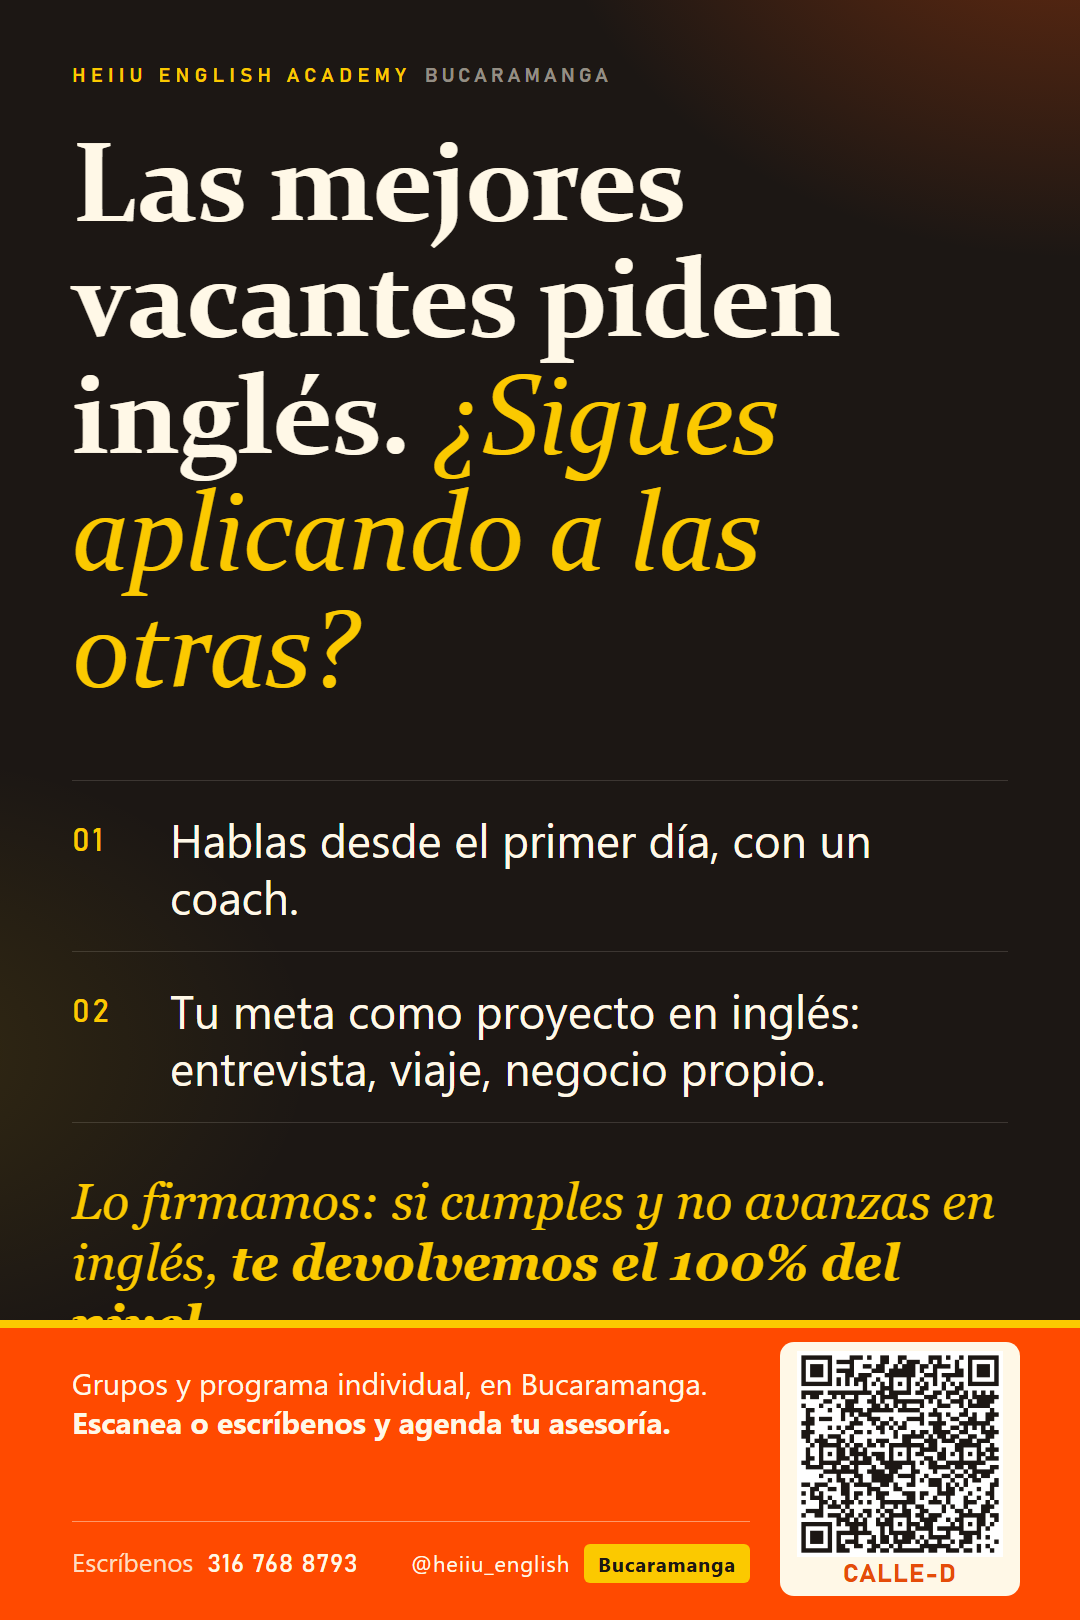
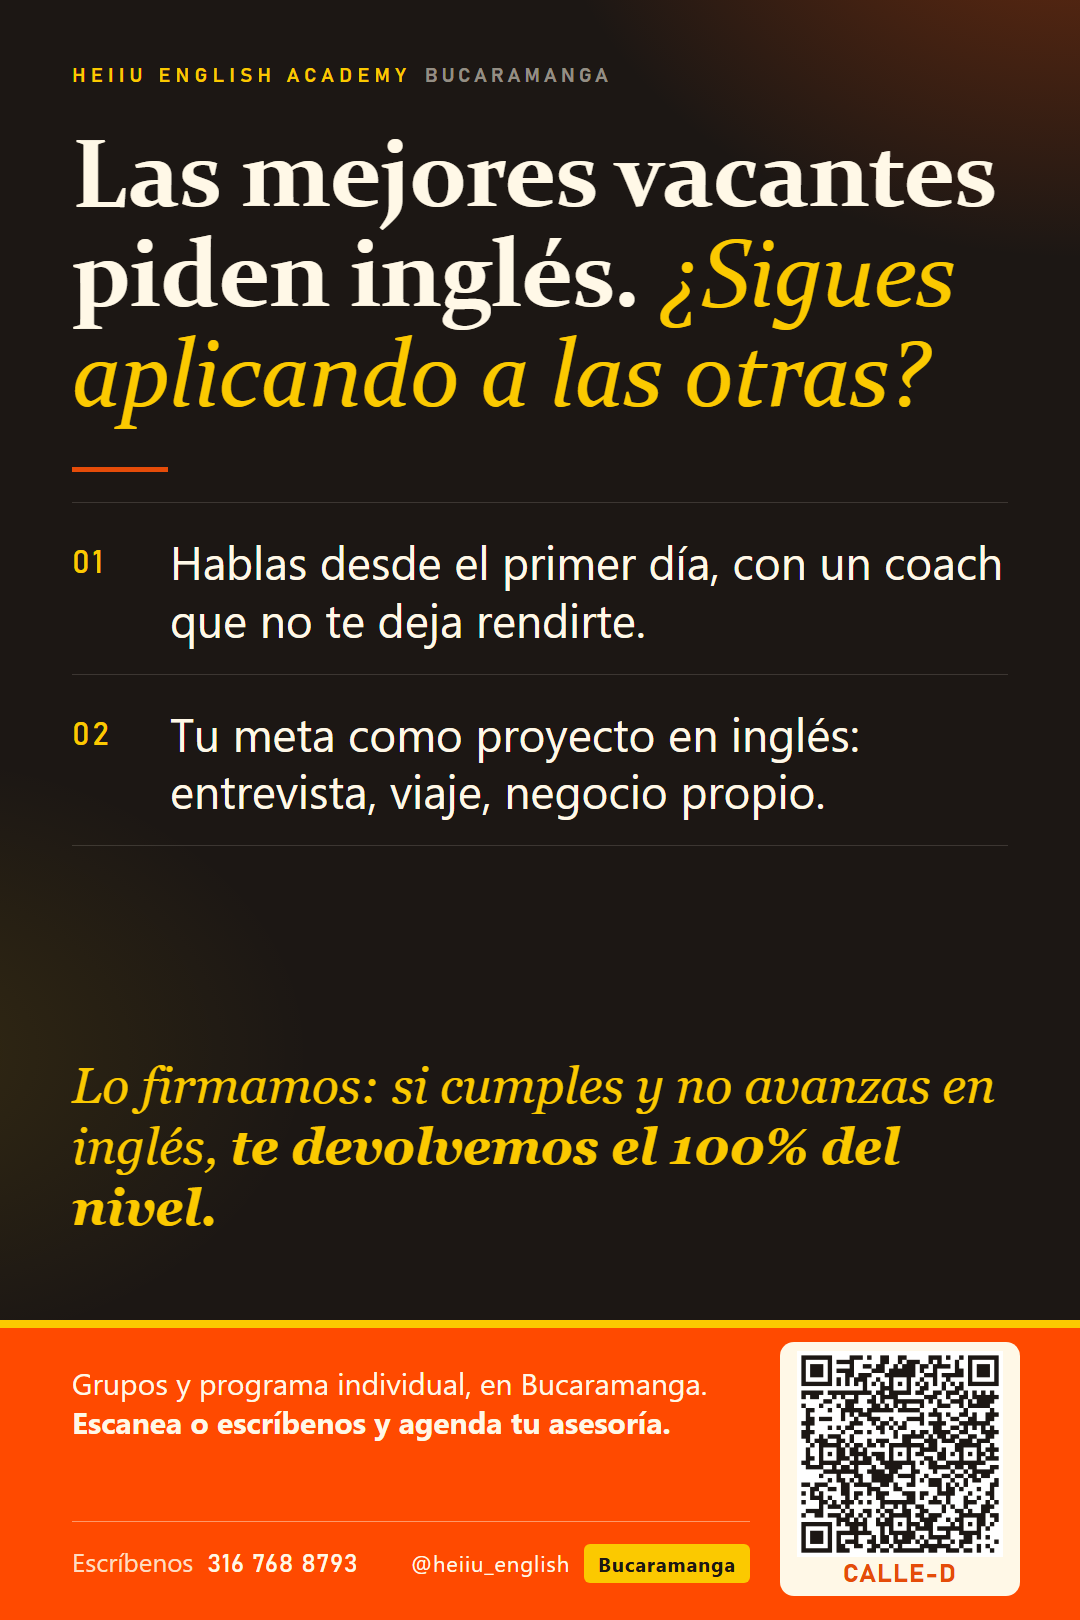
Calle D: titular a 96 px para que quepa con la garantia completa

Changed region(s): [[0.0611, 0.0926, 0.9167, 0.5864], [0.0611, 0.6173, 0.9167, 0.8333], [0.0611, 0.4938, 0.0917, 0.5247]]

diff --git a/generadores/comercial/gen_piezas_conciencia.py b/generadores/comercial/gen_piezas_conciencia.py
@@ -517,7 +517,7 @@ PIEZAS = {
     'CALLE_D': dict(
         calle=True, label='HEIIU ENGLISH ACADEMY', sub='BUCARAMANGA',
         h1='Las mejores vacantes piden inglés. <em>¿Sigues aplicando a las otras?</em>',
-        xl=True, st=[('Hablas desde el primer día, con un coach.'), ('Tu meta como proyecto en inglés: entrevista, viaje, negocio propio.')],
+        xl=True, h1px=96, st=[('Hablas desde el primer día, con un coach que no te deja rendirte.'), ('Tu meta como proyecto en inglés: entrevista, viaje, negocio propio.')],
         lead='Lo firmamos: si cumples y no avanzas en inglés, <b>te devolvemos el 100% del nivel.</b>', big='', big2='',
         band='Grupos y programa individual, en Bucaramanga. <b>Escanea o escríbenos y agenda tu asesoría.</b>',
         qr='CALLE-D', tel_qr='<small>Escríbenos</small>' + LINEA, band_px=300),
@@ -599,7 +599,7 @@ def html(c):
             '%s<div class="pivot"><p class="lead">%s</p><p class="big">%s</p>%s</div>%s%s</div>'
             '<div class="band%s"><p>%s</p>%s'
             '<div class="cta"><div class="tel">%s</div><div class="ig">%s<b>Bucaramanga</b></div></div></div>'
-            '</div></body></html>') % (CSS % dict(W=W, H=c.get('H', H), BAND=c['band_px']), COMPACT if c.get('compact') else '', LIGHT if c.get('theme') == 'light' else '', (CALLE + (CALLE_XL if c.get('xl') else '')) if c.get('calle') else '', c['label'], c['sub'], c['h1'], quote, st, c['lead'], c['big'], big2, why, fn,
+            '</div></body></html>') % (CSS % dict(W=W, H=c.get('H', H), BAND=c['band_px']), COMPACT if c.get('compact') else '', LIGHT if c.get('theme') == 'light' else '', ((CALLE + (CALLE_XL if c.get('xl') else '')) if c.get('calle') else '') + (('h1 { font-size: %dpx }' % c['h1px']) if c.get('h1px') else ''), c['label'], c['sub'], c['h1'], quote, st, c['lead'], c['big'], big2, why, fn,
                                        (' qr' if c.get('qr') else '') + (' tels' if c.get('tel_small') else ''), c['band'], derecha, tel, IG)
 
 
